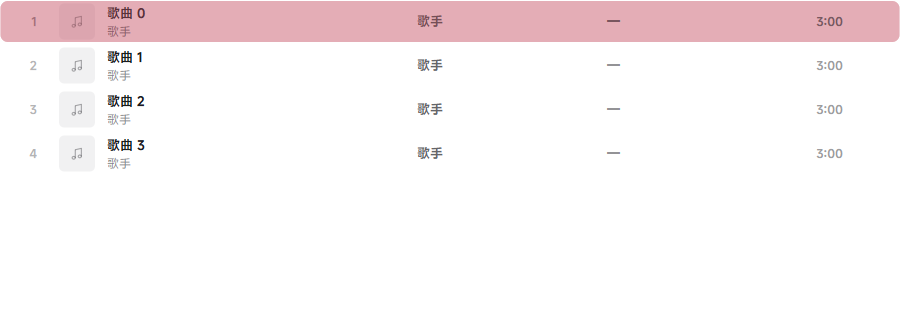
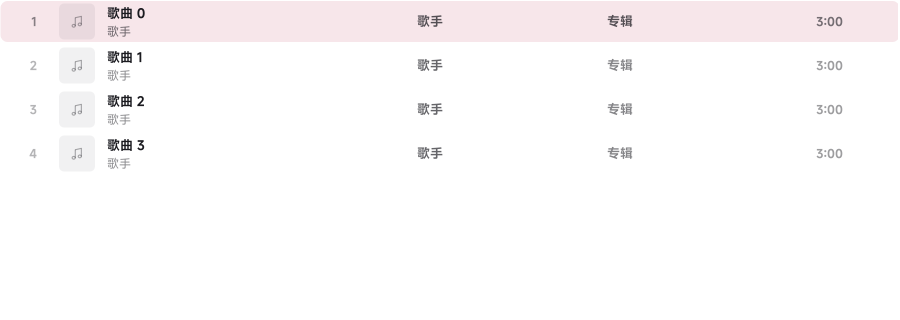
fix(1.3.2): 高亮色带按格裁剪；替换来源后同步刷新列表/队列/当前曲目

diff --git a/hushplayer/ui/widgets/tracklist.py b/hushplayer/ui/widgets/tracklist.py
@@ -420,6 +420,13 @@ class TrackDelegate(QStyledItemDelegate):
             max(1.0, self.view.viewport().width() - 1.0),
             option.rect.height() - 3.0,
         )
+        # Each cell paints the same full-row band so a single-cell repaint can
+        # never leave a hole.  Qt does not always clip the painter to the cell
+        # (the delegate is invoked twice per index on some style paths), so a
+        # full-width band would otherwise be drawn once per column and the tint
+        # would stack into an almost solid block.  Clip to the cell first: one
+        # slice per cell, seamless across the row, no accumulation.
+        painter.setClipRect(option.rect)
         if selected:
             alpha = (0.20 if hovered else 0.15) if palette.is_dark else (0.15 if hovered else 0.11)
             painter.setPen(Qt.NoPen)

diff --git a/tests/test_queue.py b/tests/test_queue.py
@@ -197,3 +197,18 @@ def test_clear() -> None:
     assert queue.count == 0
     assert queue.current is None
     assert queue.next_track() is None
+
+def test_replace_track_swaps_same_id_in_place() -> None:
+    """来源替换后队列里的旧对象要被换掉，播放位置与顺序不动。"""
+
+    queue = PlayQueue()
+    queue.set_tracks(make_tracks(3), start_index=1)
+    old = queue.current
+    assert old is not None
+    updated = Track(id=old.id, kind="online", title="新标题", artist="新歌手",
+                    source_id="another", remote_id="remote:1")
+    assert queue.replace_track(updated) is True
+    assert queue.current is not None
+    assert queue.current.title == "新标题"
+    assert queue.current_order_pos == 1
+    assert queue.replace_track(Track(id="local:missing", kind="local")) is False

diff --git a/hushplayer/audio/queue.py b/hushplayer/audio/queue.py
@@ -159,6 +159,20 @@ class PlayQueue(QObject):
         self.changed.emit()
         self.current_changed.emit(self.current)
 
+    def replace_track(self, track: Track) -> bool:
+        """用同一 ``id`` 的新记录替换队列里的旧对象（来源替换后同步）。"""
+
+        for index, old in enumerate(self._items):
+            if old.id != track.id:
+                continue
+            self._items[index] = track
+            self._by_id[track.id] = track
+            self.changed.emit()
+            if self.current is not None and self.current.id == track.id:
+                self.current_changed.emit(track)
+            return True
+        return False
+
     def append(self, tracks: list[Track]) -> int:
         added = [track for track in tracks if track is not None]
         if not added:

diff --git a/hushplayer/audio/controller.py b/hushplayer/audio/controller.py
@@ -238,6 +238,14 @@ class PlayerController(QObject):
             log.exception("restore queue failed")
         return position
 
+    def refresh_track(self, track: Track) -> None:
+        """来源替换后，把队列与当前曲目里的旧对象换成新记录。"""
+
+        self.queue.replace_track(track)
+        if self._track is not None and self._track.id == track.id:
+            self._track = track
+            self.track_changed.emit(track)
+
     def restore_current(self, position_ms: int = 0, *, autoplay: bool = False) -> None:
         """Load the restored queue's current track at ``position_ms`` without starting."""
         track = self.queue.current

diff --git a/hushplayer/ui/pages/trackpage.py b/hushplayer/ui/pages/trackpage.py
@@ -83,6 +83,7 @@ class TrackListPage(Page):
         library = ctx().library
         library.library_changed.connect(self._schedule_reload)
         library.favorites_changed.connect(self._schedule_favorites)
+        library.track_updated.connect(lambda _id: self._schedule_reload())
         library.playlists_changed.connect(self._schedule_reload)
         self.list.set_empty_text("还没有歌曲", "导入音乐文件或文件夹后，歌曲会显示在这里")
 

diff --git a/hushplayer/ui/menus.py b/hushplayer/ui/menus.py
@@ -149,6 +149,8 @@ def _replace_source(track: Track, parent: QWidget) -> None:
     if not accepted or candidate is None:
         return
     updated = app.library.replace_online_source(track.id, candidate)
+    if updated is not None:
+        app.player.refresh_track(updated)
     window = app.window
     if window is not None and hasattr(window, "toast"):
         if updated is not None:

diff --git a/hushplayer/version.py b/hushplayer/version.py
@@ -4,7 +4,7 @@ from __future__ import annotations
 
 APP_NAME = "HushPlayer"
 APP_ID = "com.hushplayer.desktop"
-VERSION = "1.3.1"
+VERSION = "1.3.2"
 BUILD_CHANNEL = "stable"
 VERSION_TUPLE = tuple(int(part) for part in VERSION.split("."))
 

diff --git a/AGENTS.md b/AGENTS.md
@@ -198,3 +198,4 @@ HushPlayer-<ver>-setup.exe /VERYSILENT /LOG=...
 - 说明：日志里的 `Request failed with status code 404`、`播放解析超时（20000 ms）` 为上游音源插件问题，不是崩溃原因。
 - 2026-10-25：1.3.0——① 修复歌曲列表选中行高亮「只覆盖部分列」：`TrackDelegate.paint` 不再只在第 0 列画整行底，而是**每个单元格都画同一块整行圆角矩形**，靠单元格裁剪拼成整条带，任何单格重绘（封面加载、收藏变化）都会补齐；回归探针 `tools/probe_r83_select.py` 断言「只重绘标题列后颜色不变」。② 新增右键「替换歌曲来源…」（`services/source_replace.py` + `ui/track_source_dialog.py` + `TrackRepository.update_source`）：跨音源重搜同一首歌，选中后只改来源字段、**保留 track.id**，收藏/歌单/历史不丢。
 - 1.3.1（2026-10-25）：选中行高亮按「行」判定 hover（Qt 的 State_MouseOver 是按单元格给的，不能用于整行底色）；右键替换来源先 ensure_started、`_on_response` 兼容 list/dict 并加超时兜底。
+1.3.2 (2026-10-25) 高亮色带逐格叠加（补 setClipRect）；替换来源后同步刷新列表页/队列/当前曲目（PlayQueue.replace_track 需同时更新 _by_id）。

diff --git a/CHANGELOG.md b/CHANGELOG.md
@@ -2,6 +2,10 @@
 
 本日志依据仓库中的 Git 提交、`hushplayer/version.py` 与构建产物整理。版本按发布时间从新到旧排列；同一版本的多条提交合并为一条，只写对使用者可见的变化。版本号 1.0.14 未单独发布，相关改动并入 1.0.15。
 
+## 1.3.2 — 2026-10-25
+
+- 修复：选中行高亮在部分列偏深（同一半透明底被逐格重复叠加）——绘制前把 painter 裁剪到单元格，整行恢复为单一透明度。
+- 修复：右键「替换歌曲来源」后界面与播放队列仍显示旧来源——替换后同步刷新列表页、播放队列与当前曲目。
 ## 1.3.1 — 2026-10-25
 
 **修复**
